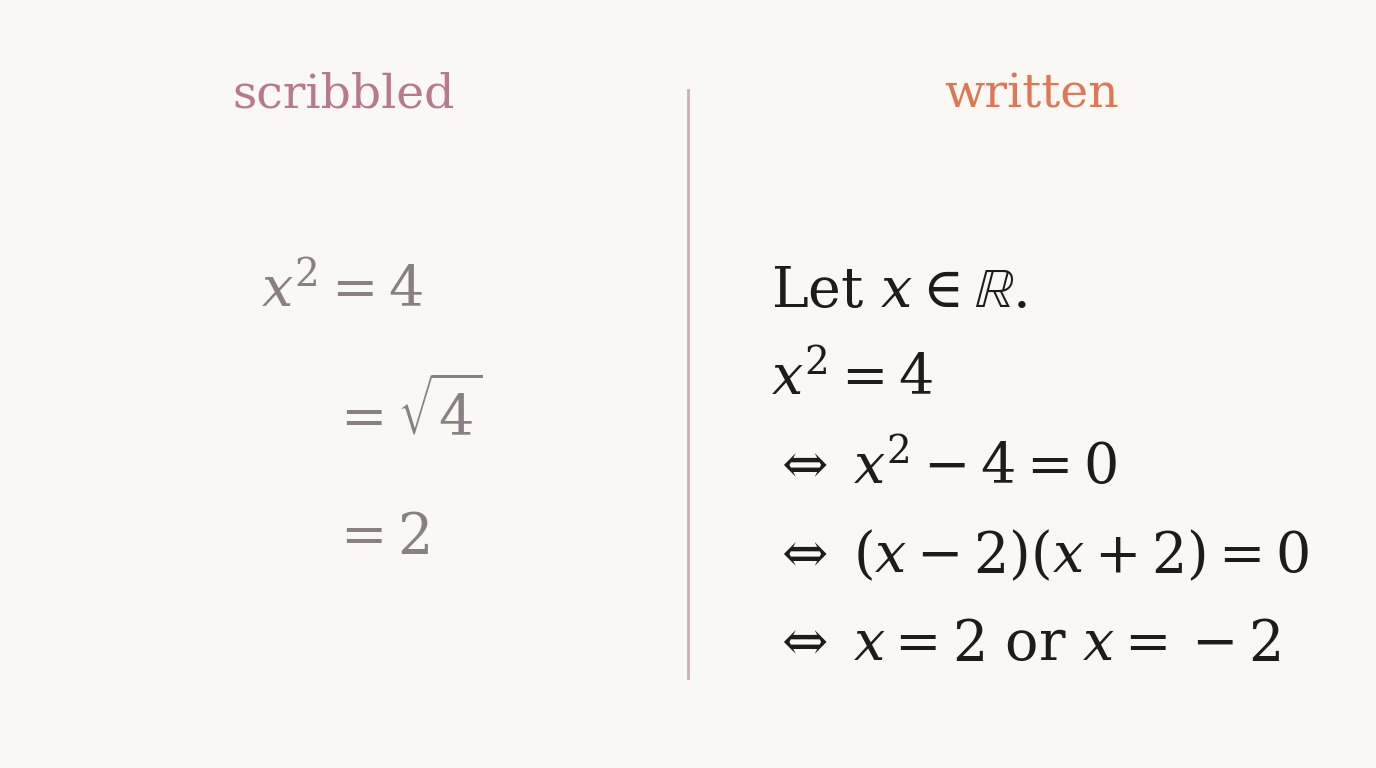
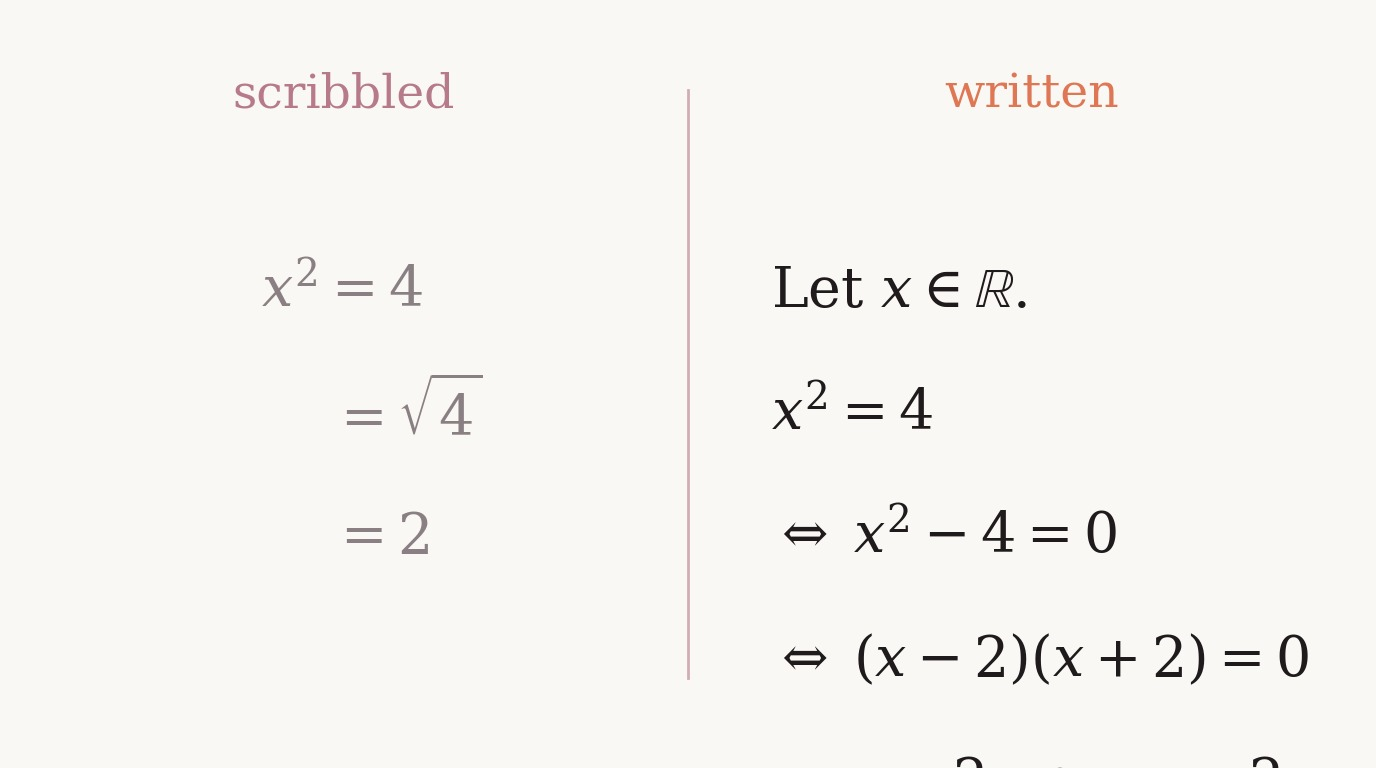
math-writing: centred halves, captions as sentences, full stop after -2

diff --git a/math-writing/math_writing_card.py b/math-writing/math_writing_card.py
@@ -22,8 +22,8 @@ ax.axis('off')
 ax.set_xlim(0, W)
 ax.set_ylim(0, H)
 
-caption_left = NL.join(['so $4 = 2$?  And where is $-2$?', 'There is nothing to check,', 'only something to guess.'])
-caption_right = NL.join(['every line a statement', 'you can check'])
+caption_left = NL.join(['So $4 = 2$?  And where is $-2$?', 'There is nothing to check,', 'only something to guess.'])
+caption_right = NL.join(['Every line is a statement', 'you can check.'])
 
 if mode == 'card':
     # the scribbled side alone, across the whole image
@@ -50,7 +50,7 @@ else:
              r'$x^2 = 4$',
              r'$\Leftrightarrow\; x^2 - 4 = 0$',
              r'$\Leftrightarrow\; (x-2)(x+2) = 0$',
-             r'$\Leftrightarrow\; x = 2$ or $x = -2$']
+             r'$\Leftrightarrow\; x = 2$ or $x = -2$.']
     rstep = step   # same line spacing on both sides
     for i, t in enumerate(lines):
         ax.text(W * 0.56, y0 - i * rstep, t, ha='left', va='center', fontsize=ff, color=DARK, family='serif')
@@ -67,6 +67,8 @@ if mode == 'split':
     bg = Image.new('RGB', halves[0].size, IVORY)
     boxes = [ImageChops.difference(h, bg).convert('L').point(lambda v: 255 if v > 24 else 0).getbbox() for h in halves]  # ignore JPEG noise
     top, bottom = min(b[1] for b in boxes) - 36, max(b[3] for b in boxes) + 36   # same height for both
-    for h, b, name in zip(halves, boxes, ('_scribbled.jpg', '_written.jpg')):
-        cx = (b[0] + b[2]) // 2; half_w = max(b[2] - b[0], 420) // 2 + 36
+    centres = [W // 4, 3 * W // 4 - (W // 2 + 20)]   # the column centres, where headings and captions sit
+    half_w = max(max(cx - b[0], b[2] - cx) for b, cx in zip(boxes, centres))   # same width for both, so the type stays the same size
+    half_w = max(half_w, 210) + 36
+    for h, b, name, cx in zip(halves, boxes, ('_scribbled.jpg', '_written.jpg'), centres):
         h.crop((max(0, cx - half_w), max(0, top), min(h.width, cx + half_w), min(h.height, bottom))).save(stem + name, quality=92)
